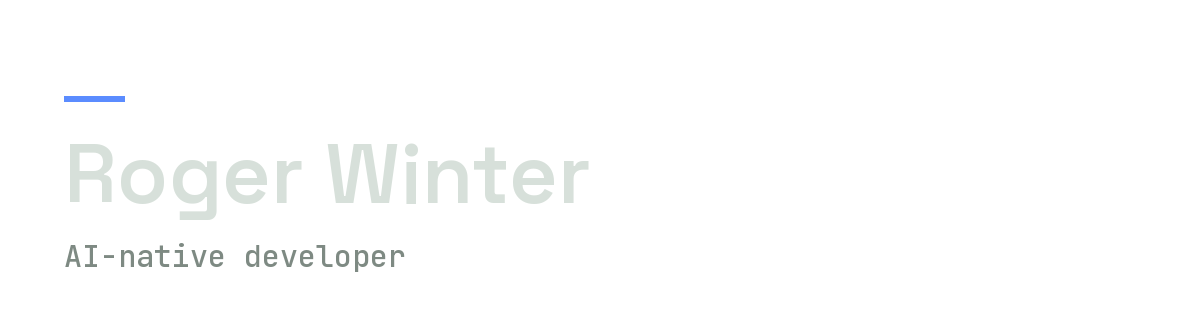
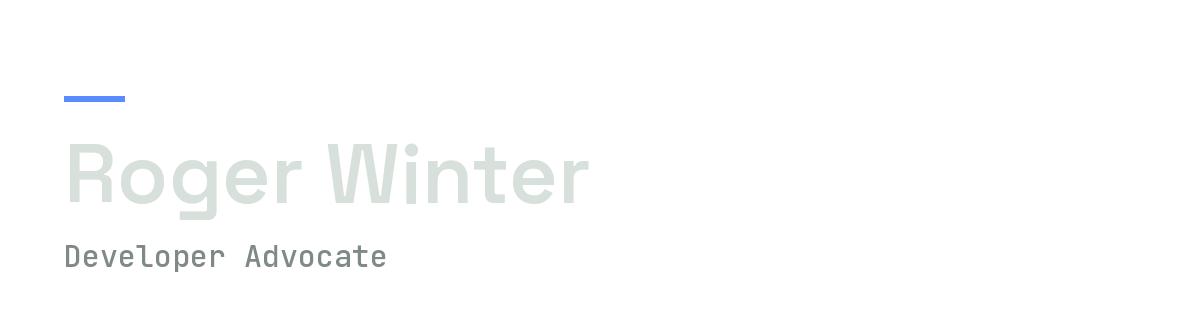
docs: revamp profile README to Developer Advocate framing
Replace the "AI-native developer" banner tagline with "Developer Advocate"
(regenerated banner PNGs) and rewrite the README around the developer-advocate
positioning: build it, then prove it, with verifiable AI. Remove PII (email),
correct the stack (no PyTorch; LLMs not "LLM APIs"; a custom neural net, no
framework), and keep the auto-updated Recently shipped block and its Action.

Changed region(s): [[0.0308, 0.75, 0.3392, 0.8438]]

diff --git a/scripts/gen-banner.py b/scripts/gen-banner.py
@@ -94,7 +94,7 @@ def render(out_path, name_color, tag_color):
     nb = draw.textbbox((PAD, name_y), name, font=name_font)
 
     # Tagline
-    tagline = "AI-native developer"
+    tagline = "Developer Advocate"
     draw.text((PAD, nb[3] + 16), tagline, font=tag_font, fill=tag_color)
 
     img.save(out_path)

diff --git a/README.md b/README.md
@@ -1,29 +1,41 @@
 <picture>
   <source media="(prefers-color-scheme: dark)" srcset="assets/banner-dark.png">
   <source media="(prefers-color-scheme: light)" srcset="assets/banner-light.png">
-  <img alt="Roger Winter, AI-native developer" src="assets/banner-dark.png" width="100%">
+  <img alt="Roger Winter, Developer Advocate" src="assets/banner-dark.png" width="100%">
 </picture>
 
 # Hi, I'm Roger Winter
 
-I design, build, ship, and document full-stack software end to end. I like tools where the AI is a collaborator you can see and steer, not a black box. Most of what I make starts as a question I want answered in public: the project is the experiment, the writeup is the result.
+Developer advocate and self-taught engineer. I build AI and web software, then write and film the technical content that proves it works. Build it, then prove it: the build is the experiment, the writeup is the result.
+
+The through-line across everything here is verifiable AI. Every project here has a way to make the model prove its work: a CI eval, a learning curve, SymPy re-checking the math, or a server-side gate that confirms only the requested change happened.
+
+I've produced technical content for CircleCI, Microsoft, Meta, Red Hat, Docker, and Snyk, spoken at developer conferences, hosted a recurring AI webinar, and I ship my own AI-backed apps in public.
+
+![TypeScript](https://img.shields.io/badge/TypeScript-3178C6?logo=typescript&logoColor=white) ![Python](https://img.shields.io/badge/Python-3776AB?logo=python&logoColor=white) ![React](https://img.shields.io/badge/React-20232A?logo=react&logoColor=61DAFB) ![Node](https://img.shields.io/badge/Node-339933?logo=node.js&logoColor=white) ![Next.js](https://img.shields.io/badge/Next.js-000000?logo=next.js&logoColor=white) ![LLMs](https://img.shields.io/badge/LLMs-FF6F00) ![WebRTC](https://img.shields.io/badge/WebRTC-333333?logo=webrtc&logoColor=white) ![CircleCI](https://img.shields.io/badge/CircleCI-343434?logo=circleci&logoColor=white)
+
+## What I build
+
+- **AI systems that check their own output** · multi-model orchestration, agents, and evals that catch regressions and gate changes on the results.
+- **Web apps, end to end** · TypeScript and Python across the stack, realtime over WebSockets and WebRTC, self-hosted behind Docker and CI.
+- **The content that proves it** · tutorials, deep technical writeups, and tutorial video, scripted and presented on camera, with the code tested in CI before it publishes.
 
 ## What I'm building
 
 **[sheet-llm](https://sheetllm.com)** · *in development*
-Compose and edit musical scores in plain language. The editor changes only what you ask it to. Never a silent rewrite.
+An open-source music notation editor you talk to. An LLM orchestrator routes each request by complexity and cost, server-side gates confirm it changed only what you asked, and a four-tier eval suite runs in CI. Next.js, React, TypeScript.
 
 **[OneStreamer](https://onestreamer.live)** · *live*
-A live-streaming platform where one person holds the broadcast at a time, watched by real and AI viewers in the same room.
+A browser competitive-streaming platform built around king-of-the-hill: one person holds the broadcast, AI chatbots and real viewers share the room, and anyone can take over. MediaSoup and WebRTC, TURN, mobile NAT traversal.
 
 **[Price Games](https://price.games)** · *live*
-Free pricing games in the browser, and a lab for engagement and AI pipelines.
+A free browser price-guessing game. TypeScript and React on a Node monorepo, test-driven, built with AI coding agents running in parallel via git worktrees. It grew to about 100 daily players, self-hosted on a Linux box at home.
 
 **[Pricey](https://twitch.tv/pricey)** · *live on Twitch*
-A 24/7 AI streamer that plays Price Games on a hand-rolled neural net, with simulated moods that change how it plays.
+A 24/7 AI streamer that plays Price Games on a custom neural net (no framework), generated and tested with Claude Code, with simulated moods that change how it plays.
 
 **[multilingual-seo](https://github.com/RealRogerWinter/multilingual-seo)** · *in development*
-Research, generate, and optimize content across languages from one workspace. It ranks which locales are even worth translating.
+Research, generate, and optimize content across languages from one workspace. It ranks which locales are worth translating before you spend a word on them.
 
 ## Recently shipped
 <!-- RECENT:START -->
@@ -36,10 +48,9 @@ Research, generate, and optimize content across languages from one workspace. It
 
 ## Stack
 
-TypeScript, Python, React, Node, PyTorch, LLM APIs, WebRTC. I self-host most things behind Docker, Caddy, and Cloudflare, with CI on every change.
+TypeScript, Python, React, Node, Next.js, LLMs, and WebRTC, plus a custom neural net (no framework). I design and run AI evals to measure model output, catch regressions, and gate changes on the results. I self-host most things behind Docker, Caddy, and Cloudflare, with CI on every change.
 
 ## Find me
 
 - Site and writeups: [rogerwinter.dev](https://rogerwinter.dev)
-- Email: rogerdwinter@gmail.com
 - LinkedIn: [roger-winter-content-strategy](https://linkedin.com/in/roger-winter-content-strategy)
